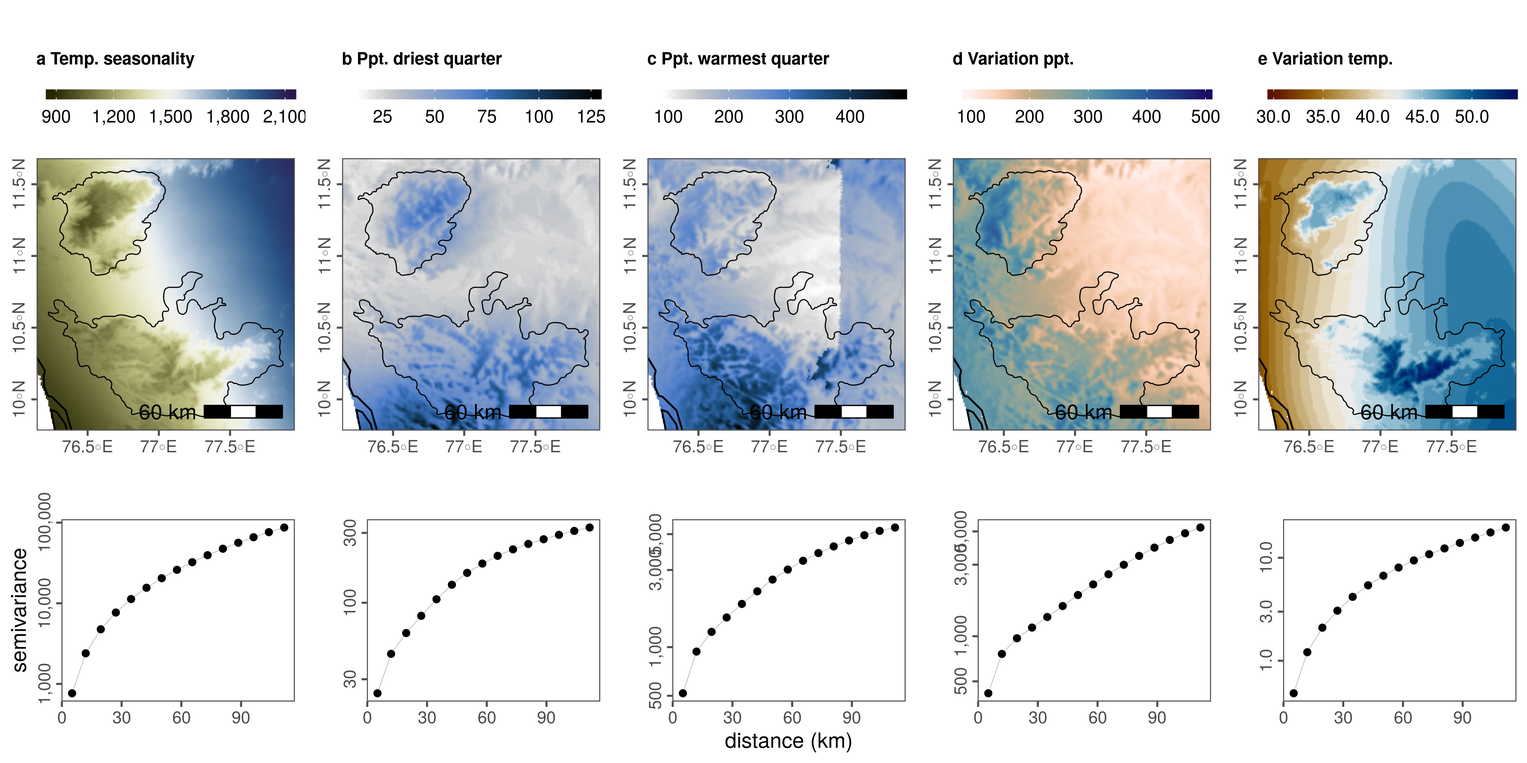
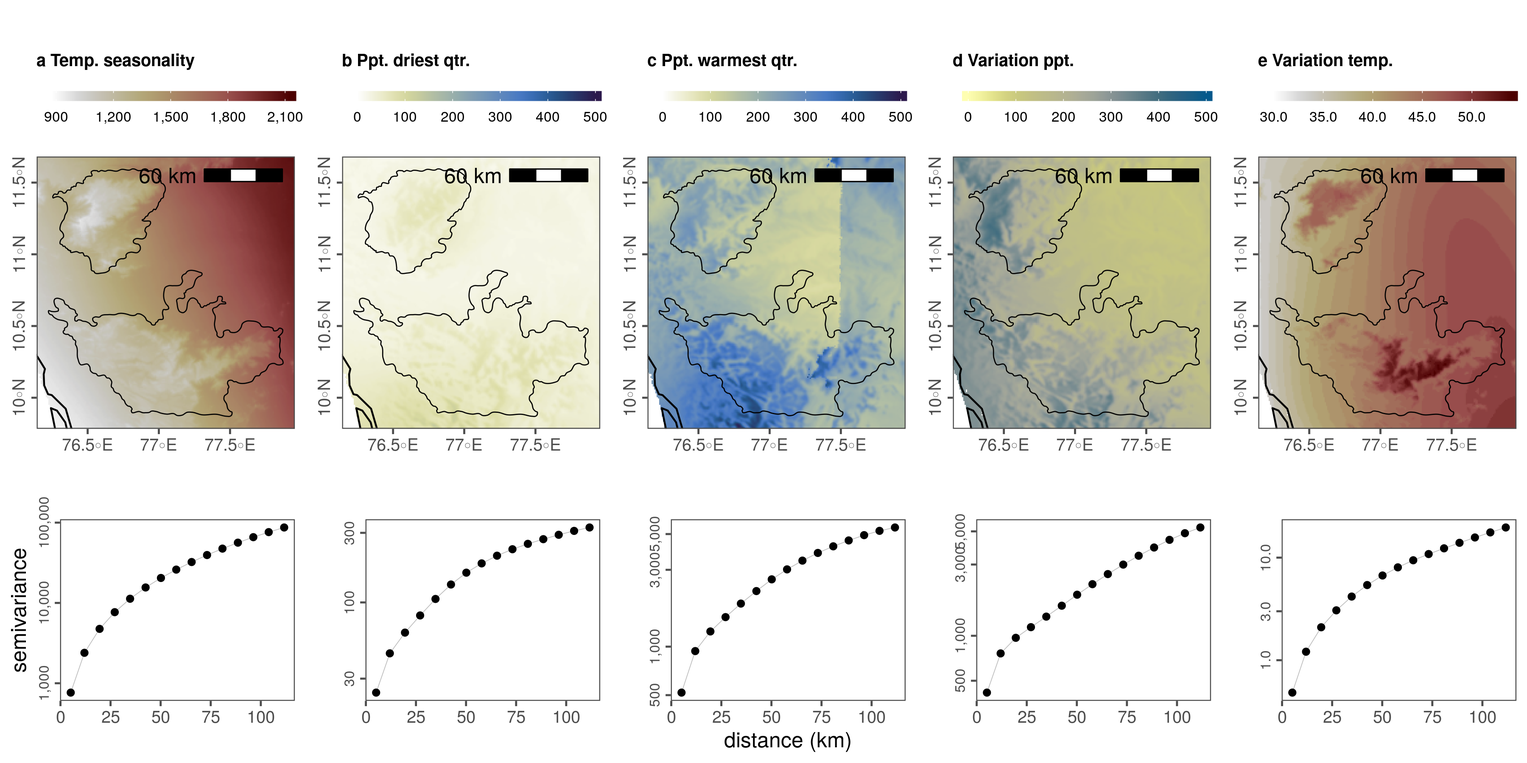
bookdown new files

diff --git a/docs/supplementary-material.html b/docs/supplementary-material.html
@@ -24,7 +24,7 @@
 <meta name="author" content="Vijay Ramesh, Pratik R Gupte, and Morgan Tingley" />
 
 
-<meta name="date" content="2020-01-19" />
+<meta name="date" content="2020-01-20" />
 
   <meta name="viewport" content="width=device-width, initial-scale=1" />
   <meta name="apple-mobile-web-app-capable" content="yes" />
@@ -887,29 +887,31 @@ code span.wa { color: #60a0b0; font-weight: bold; font-style: italic; } /* Warni
 <a class="sourceLine" id="cb87-6" title="6"><span class="kw">library</span>(tibble)</a>
 <a class="sourceLine" id="cb87-7" title="7"><span class="kw">library</span>(dplyr)</a>
 <a class="sourceLine" id="cb87-8" title="8"><span class="kw">library</span>(tidyr)</a>
-<a class="sourceLine" id="cb87-9" title="9"></a>
-<a class="sourceLine" id="cb87-10" title="10"><span class="co"># plot libs</span></a>
-<a class="sourceLine" id="cb87-11" title="11"><span class="kw">library</span>(ggplot2)</a>
-<a class="sourceLine" id="cb87-12" title="12"><span class="kw">library</span>(ggthemes)</a>
-<a class="sourceLine" id="cb87-13" title="13"><span class="kw">library</span>(scico)</a>
-<a class="sourceLine" id="cb87-14" title="14"><span class="kw">library</span>(gridExtra)</a>
-<a class="sourceLine" id="cb87-15" title="15"><span class="kw">library</span>(cowplot)</a>
-<a class="sourceLine" id="cb87-16" title="16"><span class="kw">library</span>(ggspatial)</a>
-<a class="sourceLine" id="cb87-17" title="17"></a>
-<a class="sourceLine" id="cb87-18" title="18"><span class="co">#&#39;make custom functiont to convert matrix to df</span></a>
-<a class="sourceLine" id="cb87-19" title="19">raster_to_df &lt;-<span class="st"> </span><span class="cf">function</span>(inp) {</a>
-<a class="sourceLine" id="cb87-20" title="20">  </a>
-<a class="sourceLine" id="cb87-21" title="21">  <span class="co"># assert is a raster obj</span></a>
-<a class="sourceLine" id="cb87-22" title="22">  assertthat<span class="op">::</span><span class="kw">assert_that</span>(<span class="st">&quot;RasterLayer&quot;</span> <span class="op">%in%</span><span class="st"> </span><span class="kw">class</span>(inp),</a>
-<a class="sourceLine" id="cb87-23" title="23">                          <span class="dt">msg =</span> <span class="st">&quot;input is not a raster&quot;</span>)</a>
-<a class="sourceLine" id="cb87-24" title="24">  </a>
-<a class="sourceLine" id="cb87-25" title="25">  coords &lt;-<span class="st"> </span><span class="kw">coordinates</span>(inp)</a>
-<a class="sourceLine" id="cb87-26" title="26">  vals &lt;-<span class="st"> </span><span class="kw">getValues</span>(inp)</a>
-<a class="sourceLine" id="cb87-27" title="27">  </a>
-<a class="sourceLine" id="cb87-28" title="28">  data &lt;-<span class="st"> </span><span class="kw">tibble</span>(<span class="dt">x =</span> coords[,<span class="dv">1</span>], <span class="dt">y =</span> coords[,<span class="dv">2</span>], <span class="dt">value =</span> vals)</a>
+<a class="sourceLine" id="cb87-9" title="9"><span class="kw">library</span>(glue)</a>
+<a class="sourceLine" id="cb87-10" title="10"><span class="kw">library</span>(scales)</a>
+<a class="sourceLine" id="cb87-11" title="11"></a>
+<a class="sourceLine" id="cb87-12" title="12"><span class="co"># plot libs</span></a>
+<a class="sourceLine" id="cb87-13" title="13"><span class="kw">library</span>(ggplot2)</a>
+<a class="sourceLine" id="cb87-14" title="14"><span class="kw">library</span>(ggthemes)</a>
+<a class="sourceLine" id="cb87-15" title="15"><span class="kw">library</span>(scico)</a>
+<a class="sourceLine" id="cb87-16" title="16"><span class="kw">library</span>(gridExtra)</a>
+<a class="sourceLine" id="cb87-17" title="17"><span class="kw">library</span>(cowplot)</a>
+<a class="sourceLine" id="cb87-18" title="18"><span class="kw">library</span>(ggspatial)</a>
+<a class="sourceLine" id="cb87-19" title="19"></a>
+<a class="sourceLine" id="cb87-20" title="20"><span class="co">#&#39;make custom functiont to convert matrix to df</span></a>
+<a class="sourceLine" id="cb87-21" title="21">raster_to_df &lt;-<span class="st"> </span><span class="cf">function</span>(inp) {</a>
+<a class="sourceLine" id="cb87-22" title="22">  </a>
+<a class="sourceLine" id="cb87-23" title="23">  <span class="co"># assert is a raster obj</span></a>
+<a class="sourceLine" id="cb87-24" title="24">  assertthat<span class="op">::</span><span class="kw">assert_that</span>(<span class="st">&quot;RasterLayer&quot;</span> <span class="op">%in%</span><span class="st"> </span><span class="kw">class</span>(inp),</a>
+<a class="sourceLine" id="cb87-25" title="25">                          <span class="dt">msg =</span> <span class="st">&quot;input is not a raster&quot;</span>)</a>
+<a class="sourceLine" id="cb87-26" title="26">  </a>
+<a class="sourceLine" id="cb87-27" title="27">  coords &lt;-<span class="st"> </span><span class="kw">coordinates</span>(inp)</a>
+<a class="sourceLine" id="cb87-28" title="28">  vals &lt;-<span class="st"> </span><span class="kw">getValues</span>(inp)</a>
 <a class="sourceLine" id="cb87-29" title="29">  </a>
-<a class="sourceLine" id="cb87-30" title="30">  <span class="kw">return</span>(data)</a>
-<a class="sourceLine" id="cb87-31" title="31">}</a></code></pre></div>
+<a class="sourceLine" id="cb87-30" title="30">  data &lt;-<span class="st"> </span><span class="kw">tibble</span>(<span class="dt">x =</span> coords[,<span class="dv">1</span>], <span class="dt">y =</span> coords[,<span class="dv">2</span>], <span class="dt">value =</span> vals)</a>
+<a class="sourceLine" id="cb87-31" title="31">  </a>
+<a class="sourceLine" id="cb87-32" title="32">  <span class="kw">return</span>(data)</a>
+<a class="sourceLine" id="cb87-33" title="33">}</a></code></pre></div>
 <div class="sourceCode" id="cb88"><pre class="sourceCode r"><code class="sourceCode r"><a class="sourceLine" id="cb88-1" title="1"><span class="co"># list landscape covariate stacks</span></a>
 <a class="sourceLine" id="cb88-2" title="2">landscape_files &lt;-<span class="st"> &quot;data/spatial/landscape_resamp01km.tif&quot;</span></a>
 <a class="sourceLine" id="cb88-3" title="3">landscape_data &lt;-<span class="st"> </span><span class="kw">stack</span>(landscape_files)</a>
@@ -966,11 +968,11 @@ code span.wa { color: #60a0b0; font-weight: bold; font-style: italic; } /* Warni
 <a class="sourceLine" id="cb91-6" title="6">  <span class="kw">ggplot</span>(df)<span class="op">+</span></a>
 <a class="sourceLine" id="cb91-7" title="7"><span class="st">    </span><span class="kw">geom_line</span>(<span class="kw">aes</span>(<span class="dt">x =</span> dist<span class="op">/</span><span class="dv">1000</span>, <span class="dt">y =</span> gamma), <span class="dt">size =</span> <span class="fl">0.2</span>, <span class="dt">col =</span> <span class="st">&quot;grey&quot;</span>)<span class="op">+</span></a>
 <a class="sourceLine" id="cb91-8" title="8"><span class="st">    </span><span class="kw">geom_point</span>(<span class="kw">aes</span>(<span class="dt">x =</span> dist<span class="op">/</span><span class="dv">1000</span>, <span class="dt">y =</span> gamma), <span class="dt">col =</span> <span class="st">&quot;black&quot;</span>)<span class="op">+</span></a>
-<a class="sourceLine" id="cb91-9" title="9"><span class="st">    </span><span class="kw">scale_x_continuous</span>(<span class="dt">labels =</span> comma)<span class="op">+</span></a>
+<a class="sourceLine" id="cb91-9" title="9"><span class="st">    </span><span class="kw">scale_x_continuous</span>(<span class="dt">labels =</span> comma, <span class="dt">breaks =</span> <span class="kw">c</span>(<span class="kw">seq</span>(<span class="dv">0</span>,<span class="dv">100</span>,<span class="dv">25</span>)))<span class="op">+</span></a>
 <a class="sourceLine" id="cb91-10" title="10"><span class="st">    </span><span class="kw">scale_y_log10</span>(<span class="dt">labels =</span> comma)<span class="op">+</span></a>
 <a class="sourceLine" id="cb91-11" title="11"><span class="st">    </span><span class="kw">labs</span>(<span class="dt">x =</span> xa, <span class="dt">y =</span> ya)<span class="op">+</span></a>
 <a class="sourceLine" id="cb91-12" title="12"><span class="st">    </span><span class="kw">theme_few</span>()<span class="op">+</span></a>
-<a class="sourceLine" id="cb91-13" title="13"><span class="st">    </span><span class="kw">theme</span>(<span class="dt">axis.text.y =</span> <span class="kw">element_text</span>(<span class="dt">angle =</span> <span class="dv">90</span>, <span class="dt">hjust =</span> <span class="fl">0.5</span>),</a>
+<a class="sourceLine" id="cb91-13" title="13"><span class="st">    </span><span class="kw">theme</span>(<span class="dt">axis.text.y =</span> <span class="kw">element_text</span>(<span class="dt">angle =</span> <span class="dv">90</span>, <span class="dt">hjust =</span> <span class="fl">0.5</span>, <span class="dt">size =</span> <span class="dv">8</span>),</a>
 <a class="sourceLine" id="cb91-14" title="14">          <span class="dt">strip.text =</span> <span class="kw">element_blank</span>())</a>
 <a class="sourceLine" id="cb91-15" title="15">  </a>
 <a class="sourceLine" id="cb91-16" title="16">})</a>
@@ -981,38 +983,43 @@ code span.wa { color: #60a0b0; font-weight: bold; font-style: italic; } /* Warni
 <a class="sourceLine" id="cb91-21" title="21"><span class="st">  </span>purrr<span class="op">::</span><span class="kw">map</span>(st_as_stars)</a>
 <a class="sourceLine" id="cb91-22" title="22"></a>
 <a class="sourceLine" id="cb91-23" title="23"><span class="co"># colour palettes</span></a>
-<a class="sourceLine" id="cb91-24" title="24">pal &lt;-<span class="st"> </span><span class="kw">c</span>(<span class="st">&quot;broc&quot;</span>, <span class="st">&quot;oslo&quot;</span>, <span class="st">&quot;oslo&quot;</span>, <span class="st">&quot;lapaz&quot;</span>, <span class="st">&quot;vik&quot;</span>)</a>
+<a class="sourceLine" id="cb91-24" title="24">pal &lt;-<span class="st"> </span><span class="kw">c</span>(<span class="st">&quot;bilbao&quot;</span>, <span class="st">&quot;davos&quot;</span>, <span class="st">&quot;davos&quot;</span>, <span class="st">&quot;nuuk&quot;</span>, <span class="st">&quot;bilbao&quot;</span>)</a>
 <a class="sourceLine" id="cb91-25" title="25">title &lt;-<span class="st"> </span><span class="kw">c</span>(<span class="st">&quot;a Temp. seasonality&quot;</span>,</a>
-<a class="sourceLine" id="cb91-26" title="26">           <span class="st">&quot;b Ppt. driest quarter&quot;</span>,</a>
-<a class="sourceLine" id="cb91-27" title="27">           <span class="st">&quot;c Ppt. warmest quarter&quot;</span>,</a>
+<a class="sourceLine" id="cb91-26" title="26">           <span class="st">&quot;b Ppt. driest qtr.&quot;</span>,</a>
+<a class="sourceLine" id="cb91-27" title="27">           <span class="st">&quot;c Ppt. warmest qtr.&quot;</span>,</a>
 <a class="sourceLine" id="cb91-28" title="28">           <span class="st">&quot;d Variation ppt.&quot;</span>,</a>
 <a class="sourceLine" id="cb91-29" title="29">           <span class="st">&quot;e Variation temp.&quot;</span>)</a>
-<a class="sourceLine" id="cb91-30" title="30">fig_list_chelsa &lt;-<span class="st"> </span></a>
-<a class="sourceLine" id="cb91-31" title="31"><span class="st">  </span>purrr<span class="op">::</span><span class="kw">pmap</span>(<span class="kw">list</span>(chelsa, pal, title), </a>
-<a class="sourceLine" id="cb91-32" title="32">              <span class="cf">function</span>(df, pal, t){</a>
-<a class="sourceLine" id="cb91-33" title="33">                <span class="kw">ggplot</span>()<span class="op">+</span></a>
-<a class="sourceLine" id="cb91-34" title="34"><span class="st">                  </span><span class="kw">geom_stars</span>(<span class="dt">data =</span> df)<span class="op">+</span></a>
-<a class="sourceLine" id="cb91-35" title="35"><span class="st">                  </span><span class="kw">geom_sf</span>(<span class="dt">data =</span> land, <span class="dt">fill =</span> <span class="ot">NA</span>, <span class="dt">colour =</span> <span class="st">&quot;black&quot;</span>)<span class="op">+</span></a>
-<a class="sourceLine" id="cb91-36" title="36"><span class="st">                  </span><span class="kw">geom_sf</span>(<span class="dt">data =</span> wg, <span class="dt">fill =</span> <span class="ot">NA</span>, <span class="dt">colour =</span> <span class="st">&quot;black&quot;</span>, <span class="dt">size =</span> <span class="fl">0.3</span>)<span class="op">+</span></a>
-<a class="sourceLine" id="cb91-37" title="37"><span class="st">                  </span><span class="kw">scale_fill_scico</span>(<span class="dt">palette =</span> pal, <span class="dt">direction =</span> <span class="dv">-1</span>, </a>
-<a class="sourceLine" id="cb91-38" title="38">                                   <span class="dt">label =</span> comma, <span class="dt">na.value =</span> <span class="ot">NA</span>)<span class="op">+</span></a>
-<a class="sourceLine" id="cb91-39" title="39"><span class="st">                  </span><span class="kw">coord_sf</span>(<span class="dt">xlim =</span> bbox[<span class="kw">c</span>(<span class="st">&quot;xmin&quot;</span>, <span class="st">&quot;xmax&quot;</span>)], </a>
-<a class="sourceLine" id="cb91-40" title="40">                           <span class="dt">ylim =</span> bbox[<span class="kw">c</span>(<span class="st">&quot;ymin&quot;</span>, <span class="st">&quot;ymax&quot;</span>)])<span class="op">+</span></a>
-<a class="sourceLine" id="cb91-41" title="41"><span class="st">                  </span><span class="kw">annotation_scale</span>(<span class="dt">location =</span> <span class="st">&quot;br&quot;</span>, <span class="dt">width_hint =</span> <span class="fl">0.4</span>, <span class="dt">text_cex =</span> <span class="dv">1</span>) <span class="op">+</span></a>
-<a class="sourceLine" id="cb91-42" title="42"><span class="st">                  </span></a>
-<a class="sourceLine" id="cb91-43" title="43"><span class="st">                  </span><span class="kw">theme_few</span>()<span class="op">+</span></a>
-<a class="sourceLine" id="cb91-44" title="44"><span class="st">                  </span><span class="kw">theme</span>(<span class="dt">legend.position =</span> <span class="st">&quot;top&quot;</span>,</a>
-<a class="sourceLine" id="cb91-45" title="45">                        <span class="dt">title =</span> <span class="kw">element_text</span>(<span class="dt">face =</span> <span class="st">&quot;bold&quot;</span>, <span class="dt">size =</span> <span class="dv">8</span>),</a>
-<a class="sourceLine" id="cb91-46" title="46">                        <span class="dt">legend.key.height =</span> <span class="kw">unit</span>(<span class="fl">0.2</span>, <span class="st">&quot;cm&quot;</span>),</a>
-<a class="sourceLine" id="cb91-47" title="47">                        <span class="dt">legend.key.width =</span> <span class="kw">unit</span>(<span class="dv">1</span>, <span class="st">&quot;cm&quot;</span>),</a>
-<a class="sourceLine" id="cb91-48" title="48">                        <span class="dt">legend.text =</span> <span class="kw">element_text</span>(<span class="dt">size =</span> <span class="dv">10</span>),</a>
-<a class="sourceLine" id="cb91-49" title="49">                        <span class="dt">axis.title =</span> <span class="kw">element_blank</span>(),</a>
-<a class="sourceLine" id="cb91-50" title="50">                        <span class="dt">axis.text.y =</span> <span class="kw">element_text</span>(<span class="dt">angle =</span> <span class="dv">90</span>, <span class="dt">hjust =</span> <span class="fl">0.5</span>),</a>
-<a class="sourceLine" id="cb91-51" title="51">                        <span class="co"># panel.background = element_rect(fill = &quot;lightblue&quot;),</span></a>
-<a class="sourceLine" id="cb91-52" title="52">                        <span class="dt">legend.title =</span> <span class="kw">element_blank</span>())<span class="op">+</span></a>
-<a class="sourceLine" id="cb91-53" title="53"><span class="st">                  </span><span class="kw">labs</span>(<span class="dt">x=</span><span class="ot">NULL</span>, <span class="dt">y=</span><span class="ot">NULL</span>, <span class="dt">title =</span> t)</a>
-<a class="sourceLine" id="cb91-54" title="54">              })</a>
-<a class="sourceLine" id="cb91-55" title="55">fig_list_chelsa &lt;-<span class="st"> </span>purrr<span class="op">::</span><span class="kw">map</span>(fig_list_chelsa, as_grob)</a></code></pre></div>
+<a class="sourceLine" id="cb91-30" title="30">direction &lt;-<span class="st"> </span><span class="kw">c</span>(<span class="dv">1</span>,<span class="op">-</span><span class="dv">1</span>,<span class="op">-</span><span class="dv">1</span>,<span class="op">-</span><span class="dv">1</span>,<span class="dv">1</span>)</a>
+<a class="sourceLine" id="cb91-31" title="31">lims &lt;-<span class="st"> </span><span class="kw">list</span>(<span class="kw">range</span>(chelsa[[<span class="dv">1</span>]]<span class="op">$</span>chelsa_bio10_<span class="dv">04</span>, <span class="dt">na.rm =</span> T), </a>
+<a class="sourceLine" id="cb91-32" title="32">             <span class="kw">c</span>(<span class="dv">0</span>, <span class="dv">500</span>), <span class="kw">c</span>(<span class="dv">0</span>, <span class="dv">500</span>),</a>
+<a class="sourceLine" id="cb91-33" title="33">             <span class="kw">c</span>(<span class="dv">0</span>,<span class="dv">500</span>),<span class="co">#range(chelsa[[4]]$chelsa_prec, na.rm = T),</span></a>
+<a class="sourceLine" id="cb91-34" title="34">             <span class="kw">range</span>(chelsa[[<span class="dv">5</span>]]<span class="op">$</span>chelsa_temp, <span class="dt">na.rm =</span> T))</a>
+<a class="sourceLine" id="cb91-35" title="35">fig_list_chelsa &lt;-<span class="st"> </span></a>
+<a class="sourceLine" id="cb91-36" title="36"><span class="st">  </span>purrr<span class="op">::</span><span class="kw">pmap</span>(<span class="kw">list</span>(chelsa, pal, title, direction, lims), </a>
+<a class="sourceLine" id="cb91-37" title="37">              <span class="cf">function</span>(df, pal, t, d, l){</a>
+<a class="sourceLine" id="cb91-38" title="38">                <span class="kw">ggplot</span>()<span class="op">+</span></a>
+<a class="sourceLine" id="cb91-39" title="39"><span class="st">                  </span><span class="kw">geom_stars</span>(<span class="dt">data =</span> df)<span class="op">+</span></a>
+<a class="sourceLine" id="cb91-40" title="40"><span class="st">                  </span><span class="kw">geom_sf</span>(<span class="dt">data =</span> land, <span class="dt">fill =</span> <span class="ot">NA</span>, <span class="dt">colour =</span> <span class="st">&quot;black&quot;</span>)<span class="op">+</span></a>
+<a class="sourceLine" id="cb91-41" title="41"><span class="st">                  </span><span class="kw">geom_sf</span>(<span class="dt">data =</span> wg, <span class="dt">fill =</span> <span class="ot">NA</span>, <span class="dt">colour =</span> <span class="st">&quot;black&quot;</span>, <span class="dt">size =</span> <span class="fl">0.3</span>)<span class="op">+</span></a>
+<a class="sourceLine" id="cb91-42" title="42"><span class="st">                  </span><span class="kw">scale_fill_scico</span>(<span class="dt">palette =</span> pal, <span class="dt">direction =</span> d, </a>
+<a class="sourceLine" id="cb91-43" title="43">                                   <span class="dt">label =</span> comma, <span class="dt">na.value =</span> <span class="ot">NA</span>, <span class="dt">limits =</span> l)<span class="op">+</span></a>
+<a class="sourceLine" id="cb91-44" title="44"><span class="st">                  </span><span class="kw">coord_sf</span>(<span class="dt">xlim =</span> bbox[<span class="kw">c</span>(<span class="st">&quot;xmin&quot;</span>, <span class="st">&quot;xmax&quot;</span>)], </a>
+<a class="sourceLine" id="cb91-45" title="45">                           <span class="dt">ylim =</span> bbox[<span class="kw">c</span>(<span class="st">&quot;ymin&quot;</span>, <span class="st">&quot;ymax&quot;</span>)])<span class="op">+</span></a>
+<a class="sourceLine" id="cb91-46" title="46"><span class="st">                  </span><span class="kw">annotation_scale</span>(<span class="dt">location =</span> <span class="st">&quot;tr&quot;</span>, <span class="dt">width_hint =</span> <span class="fl">0.4</span>, <span class="dt">text_cex =</span> <span class="dv">1</span>) <span class="op">+</span></a>
+<a class="sourceLine" id="cb91-47" title="47"><span class="st">                  </span></a>
+<a class="sourceLine" id="cb91-48" title="48"><span class="st">                  </span><span class="kw">theme_few</span>()<span class="op">+</span></a>
+<a class="sourceLine" id="cb91-49" title="49"><span class="st">                  </span><span class="kw">theme</span>(<span class="dt">legend.position =</span> <span class="st">&quot;top&quot;</span>,</a>
+<a class="sourceLine" id="cb91-50" title="50">                        <span class="dt">title =</span> <span class="kw">element_text</span>(<span class="dt">face =</span> <span class="st">&quot;bold&quot;</span>, <span class="dt">size =</span> <span class="dv">8</span>),</a>
+<a class="sourceLine" id="cb91-51" title="51">                        <span class="dt">legend.key.height =</span> <span class="kw">unit</span>(<span class="fl">0.2</span>, <span class="st">&quot;cm&quot;</span>),</a>
+<a class="sourceLine" id="cb91-52" title="52">                        <span class="dt">legend.key.width =</span> <span class="kw">unit</span>(<span class="dv">1</span>, <span class="st">&quot;cm&quot;</span>),</a>
+<a class="sourceLine" id="cb91-53" title="53">                        <span class="dt">legend.text =</span> <span class="kw">element_text</span>(<span class="dt">size =</span> <span class="dv">8</span>),</a>
+<a class="sourceLine" id="cb91-54" title="54">                        <span class="dt">axis.title =</span> <span class="kw">element_blank</span>(),</a>
+<a class="sourceLine" id="cb91-55" title="55">                        <span class="dt">axis.text.y =</span> <span class="kw">element_text</span>(<span class="dt">angle =</span> <span class="dv">90</span>, <span class="dt">hjust =</span> <span class="fl">0.5</span>),</a>
+<a class="sourceLine" id="cb91-56" title="56">                        <span class="co"># panel.background = element_rect(fill = &quot;lightblue&quot;),</span></a>
+<a class="sourceLine" id="cb91-57" title="57">                        <span class="dt">legend.title =</span> <span class="kw">element_blank</span>())<span class="op">+</span></a>
+<a class="sourceLine" id="cb91-58" title="58"><span class="st">                  </span><span class="kw">labs</span>(<span class="dt">x=</span><span class="ot">NULL</span>, <span class="dt">y=</span><span class="ot">NULL</span>, <span class="dt">title =</span> t)</a>
+<a class="sourceLine" id="cb91-59" title="59">              })</a>
+<a class="sourceLine" id="cb91-60" title="60">fig_list_chelsa &lt;-<span class="st"> </span>purrr<span class="op">::</span><span class="kw">map</span>(fig_list_chelsa, as_grob)</a></code></pre></div>
 <div class="sourceCode" id="cb92"><pre class="sourceCode r"><code class="sourceCode r"><a class="sourceLine" id="cb92-1" title="1">fig_list_chelsa &lt;-<span class="st"> </span><span class="kw">append</span>(fig_list_chelsa, fig_vgrams)</a>
 <a class="sourceLine" id="cb92-2" title="2">lmatrix &lt;-<span class="st"> </span><span class="kw">matrix</span>(<span class="kw">c</span>(<span class="kw">c</span>(<span class="dv">1</span>,<span class="dv">2</span>,<span class="dv">3</span>,<span class="dv">4</span>,<span class="dv">5</span>), <span class="kw">c</span>(<span class="dv">1</span>,<span class="dv">2</span>,<span class="dv">3</span>,<span class="dv">4</span>,<span class="dv">5</span>), <span class="kw">c</span>(<span class="dv">6</span>,<span class="dv">7</span>,<span class="dv">8</span>,<span class="dv">9</span>,<span class="dv">10</span>)), <span class="dt">nrow =</span> <span class="dv">3</span>, <span class="dt">byrow =</span> T)</a>
 <a class="sourceLine" id="cb92-3" title="3">plot_grid &lt;-<span class="st"> </span><span class="kw">grid.arrange</span>(<span class="dt">grobs =</span> fig_list_chelsa, <span class="dt">layout_matrix =</span> lmatrix)</a>

diff --git a/docs/index.html b/docs/index.html
@@ -24,7 +24,7 @@
 <meta name="author" content="Vijay Ramesh, Pratik R Gupte, and Morgan Tingley" />
 
 
-<meta name="date" content="2020-01-19" />
+<meta name="date" content="2020-01-20" />
 
   <meta name="viewport" content="width=device-width, initial-scale=1" />
   <meta name="apple-mobile-web-app-capable" content="yes" />
@@ -252,7 +252,7 @@ code span.wa { color: #60a0b0; font-weight: bold; font-style: italic; } /* Warni
 <div id="header">
 <h1 class="title">Influence of land cover and climate on the occupancy of avian distributions along a tropical montane gradient</h1>
 <p class="author"><em>Vijay Ramesh, Pratik R Gupte, and Morgan Tingley</em></p>
-<p class="date"><em>2020-01-19</em></p>
+<p class="date"><em>2020-01-20</em></p>
 </div>
 <div id="introduction" class="section level1">
 <h1><span class="header-section-number">Section 1</span> Introduction</h1>

diff --git a/docs/add-covariates-to-subsampled-data.html b/docs/add-covariates-to-subsampled-data.html
@@ -24,7 +24,7 @@
 <meta name="author" content="Vijay Ramesh, Pratik R Gupte, and Morgan Tingley" />
 
 
-<meta name="date" content="2020-01-19" />
+<meta name="date" content="2020-01-20" />
 
   <meta name="viewport" content="width=device-width, initial-scale=1" />
   <meta name="apple-mobile-web-app-capable" content="yes" />

diff --git a/docs/occupancy-modelling.html b/docs/occupancy-modelling.html
@@ -24,7 +24,7 @@
 <meta name="author" content="Vijay Ramesh, Pratik R Gupte, and Morgan Tingley" />
 
 
-<meta name="date" content="2020-01-19" />
+<meta name="date" content="2020-01-20" />
 
   <meta name="viewport" content="width=device-width, initial-scale=1" />
   <meta name="apple-mobile-web-app-capable" content="yes" />

diff --git a/docs/prepare-landscape-data.html b/docs/prepare-landscape-data.html
@@ -24,7 +24,7 @@
 <meta name="author" content="Vijay Ramesh, Pratik R Gupte, and Morgan Tingley" />
 
 
-<meta name="date" content="2020-01-19" />
+<meta name="date" content="2020-01-20" />
 
   <meta name="viewport" content="width=device-width, initial-scale=1" />
   <meta name="apple-mobile-web-app-capable" content="yes" />

diff --git a/docs/prepare-observer-expertise.html b/docs/prepare-observer-expertise.html
@@ -24,7 +24,7 @@
 <meta name="author" content="Vijay Ramesh, Pratik R Gupte, and Morgan Tingley" />
 
 
-<meta name="date" content="2020-01-19" />
+<meta name="date" content="2020-01-20" />
 
   <meta name="viewport" content="width=device-width, initial-scale=1" />
   <meta name="apple-mobile-web-app-capable" content="yes" />

diff --git a/docs/preparing-ebird-data.html b/docs/preparing-ebird-data.html
@@ -24,7 +24,7 @@
 <meta name="author" content="Vijay Ramesh, Pratik R Gupte, and Morgan Tingley" />
 
 
-<meta name="date" content="2020-01-19" />
+<meta name="date" content="2020-01-20" />
 
   <meta name="viewport" content="width=device-width, initial-scale=1" />
   <meta name="apple-mobile-web-app-capable" content="yes" />
